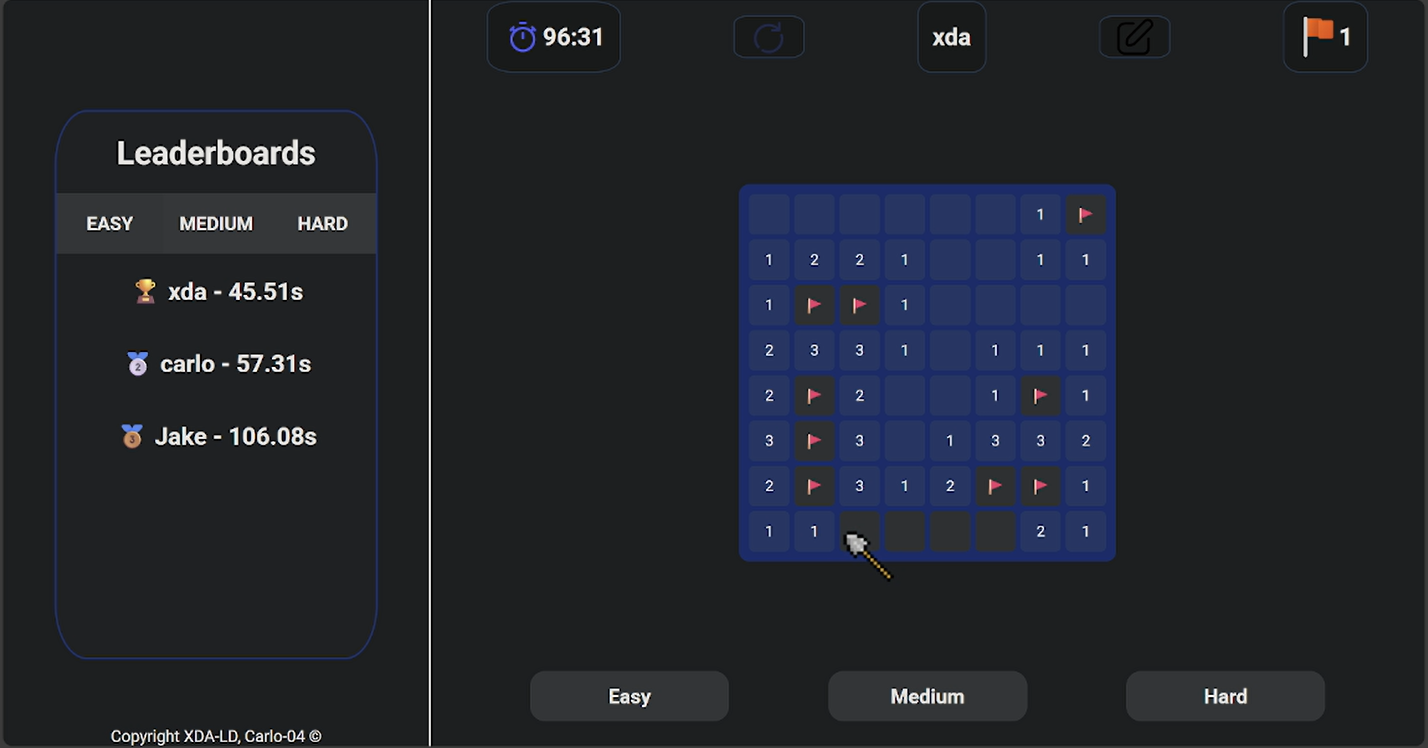
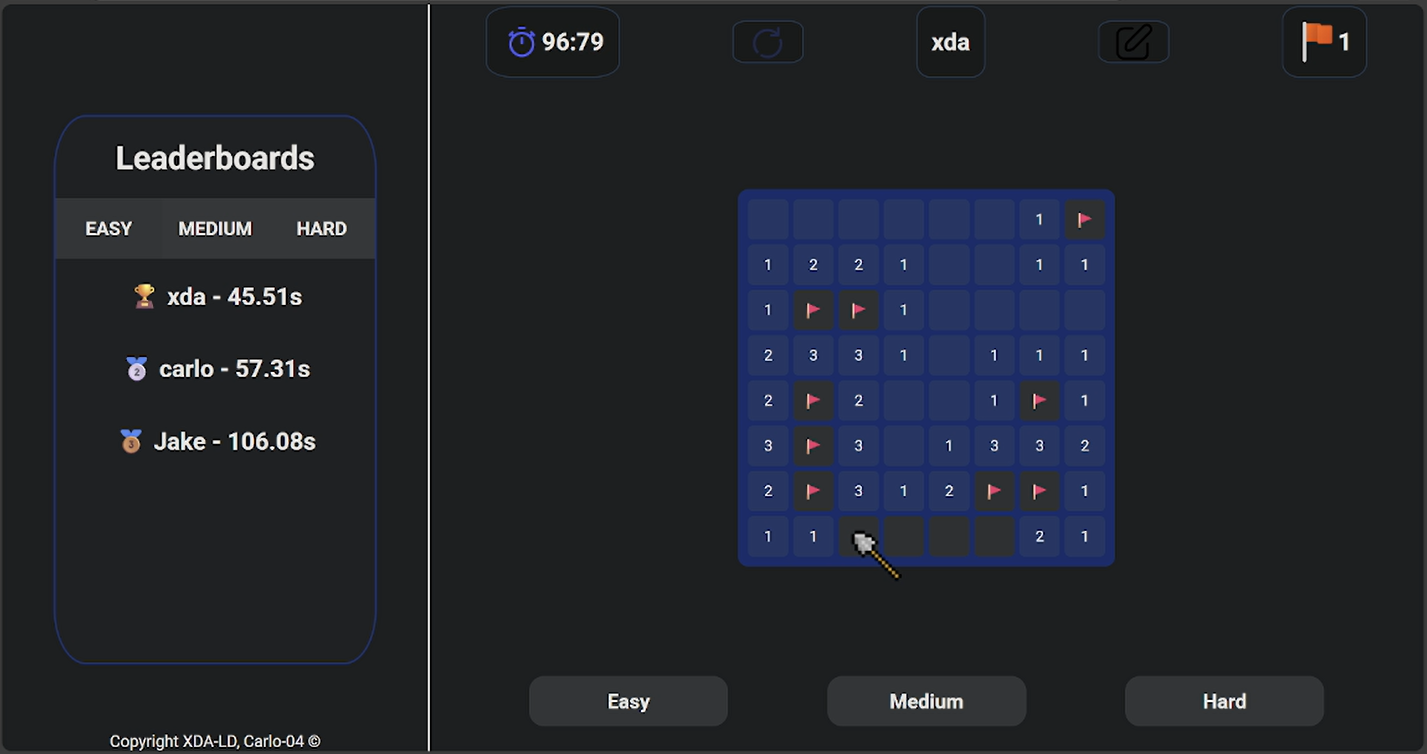
Reorganized project structure and renamed files

diff --git a/README.md b/README.md
@@ -1,2 +1,17 @@
-# Minesweeper
-Minesweeper
+# Minesweeper (Vanilla JS)
+
+A simple Minesweeper game made in plain HTML/CSS/JS. (Originally made for a web development course at LAU)
+
+![Gameplay](docs/images/gameplay.png)
+
+## How to run
+- Open `index.html` in a browser, or
+- Serve the folder:
+  - `python -m http.server 8000`
+  - Visit `http://localhost:8000`
+
+## How to play
+- Set player name
+- Left click: reveal
+- Right click: flag
+Avoid the mines to win.
